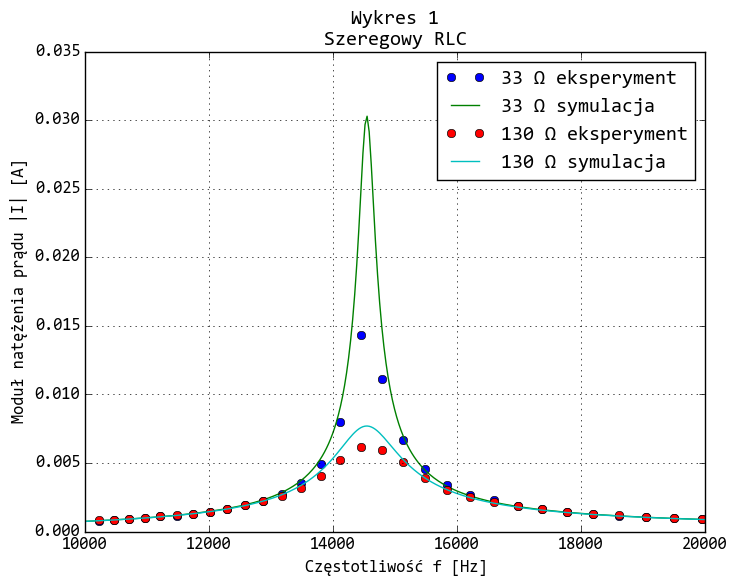
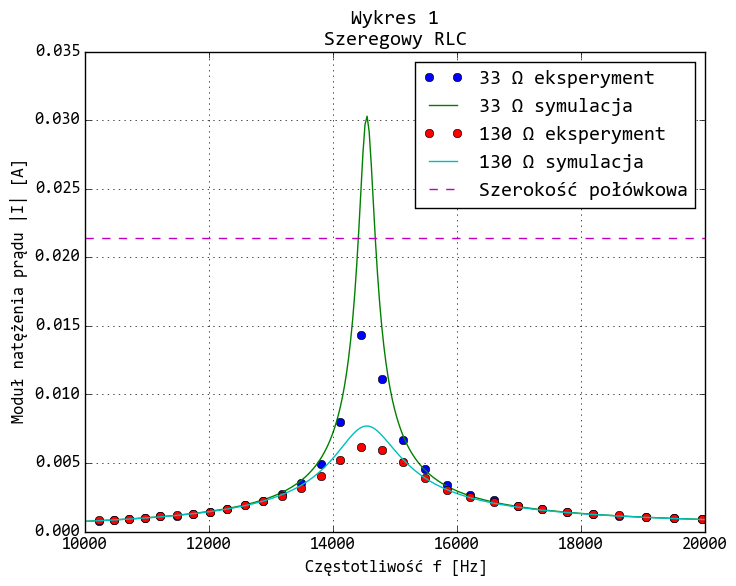
Przerywana prosta do szerokości połówkowej i dobroci
Niniejszym odpadam :) Na bieżąco do zrobienia: wyznaczyć indukcyjność
zwojnicy (Monikowy wzór z notatek!), dobroć i częstotliwość graniczną
plus niepewności. W tym momencie naturalny podział ról: jedno z nas może
zrobić 4., drugie 6 (wykres 7 to teoretyczna i doświadczalna krzywa
uniwersalna rezonansowa).
W 5. też trzeba będzie policzyć dobroć i parametry, i też niepewności.
7. trzeba wykombinować efektywne czytanie wielokolumnowych danych z
oscyloskopu. Chyba zaczynałem to pisać.

diff --git a/Cw2Rezonans/Karolina/BodePlotMultifileWykres4Zadanie4.py b/Cw2Rezonans/Karolina/BodePlotMultifileWykres4Zadanie4.py
@@ -26,9 +26,11 @@ Xsim2=Dane[3][:, 0]
 Ysim2=10**(Dane[3][:, 1]/20.)
 plt.plot(Xsim2, Ysim2, "-", label=u"30k Ω symulacja")
 
-
 minx=np.round((min((min(Xsim), min(Xex)))/10000))*10000
 maxx=np.round((max((max(Xsim), max(Xex)))/10000))*10000
+polowkowa=1/np.sqrt(2)#/33.
+plt.plot([minx, maxx], [polowkowa]*2, "--", label="Szerokość połówkowa")
+
 xticks=np.linspace(minx, maxx, 6)
 
 #plt.xscale('log')

diff --git a/Cw2Rezonans/Karolina/BodePlotMultifileWykres1.py b/Cw2Rezonans/Karolina/BodePlotMultifileWykres1.py
@@ -31,6 +31,10 @@ minx=np.round((min((min(Xsim), min(Xex)))/10000))*10000
 maxx=np.round((max((max(Xsim), max(Xex)))/10000))*10000
 xticks=np.linspace(minx, maxx, 6)
 
+
+polowkowa=1/np.sqrt(2)/33.
+plt.plot([minx, maxx], [polowkowa]*2, "--", label=u"Szerokość połówkowa")
+
 #plt.xscale('log')
 #plt.yscale('log')
 plt.xlim(minx,maxx)
